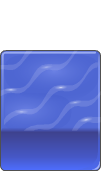
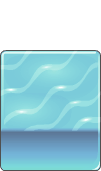
change gamescreen blocks to arctic theme

diff --git a/Nanodegree/ArcadeGame/js/engine.js b/Nanodegree/ArcadeGame/js/engine.js
@@ -107,12 +107,12 @@ var Engine = (function(global) {
          * for that particular row of the game level.
          */
         var rowImages = [
-                'images/dirt-block.png',
-                'images/grass-block.png',
-                'images/road-block.png',
-                'images/road-block.png',
-                'images/road-block.png',
-                'images/grass-block.png',
+                'images/snow-block.png',
+                'images/snow-block.png',
+                'images/snow-block.png',
+                'images/water-block.png',
+                'images/water-block.png',
+                'images/water-block.png',
                 'images/water-block.png',
             ],
             numRows = 7,
@@ -178,10 +178,8 @@ var Engine = (function(global) {
      * all of these images are properly loaded our game will start.
      */
     Resources.load([
-        'images/road-block.png',
+        'images/snow-block.png',
         'images/water-block.png',
-        'images/grass-block.png',
-        'images/dirt-block.png',
         'images/enemy-car.png',
         'images/enemy-bike.png',
         'images/enemy-truck.png',
